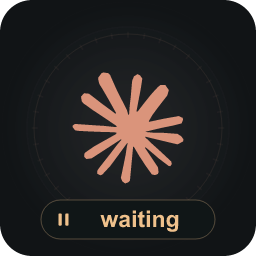
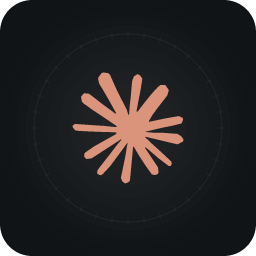
Keep Discord artwork free of text

diff --git a/assets/preview.html b/assets/preview.html
@@ -22,7 +22,7 @@
   <header><div class="wordmark"><span class="signal" aria-hidden="true"><i></i><i></i><i></i><i></i></span>dual presence</div><span class="version">action study / 02</span></header>
   <div class="eyebrow">codex + claude for discord</div>
   <h1>see what’s happening.<br><span>at a glance.</span></h1>
-  <p class="intro">the logo tells you which assistant.<br>the action badge tells you what it’s doing.</p>
+  <p class="intro">the logo tells you which assistant.<br>simple action icons. no text inside the images.</p>
   <div class="toolbar">
     <div class="segmented" aria-label="activity state">
       <button type="button" data-state="working" aria-pressed="true">working</button><button type="button" data-state="thinking" aria-pressed="false">thinking</button><button type="button" data-state="waiting" aria-pressed="false">waiting</button><button type="button" data-state="idle" aria-pressed="false">idle</button>

diff --git a/README.md b/README.md
@@ -39,6 +39,8 @@ the installer copies this local checkout to `%LOCALAPPDATA%\CodexClaudeRPC`. it 
 
 action text comes from a fixed vocabulary. raw commands, prompts, and tool inputs never appear on discord. fast tool results keep their action visible for up to eight seconds to avoid flicker. a finished action stays visible for `doneSeconds` (20 seconds by default), then the usual idle preference applies.
 
+there is no text baked into the images. the artwork contains only logos, motion, and action pictograms; labels stay in discord's normal text fields.
+
 open [the interactive animation preview](assets/preview.html) from your local checkout to compare states and pause motion. github displays the html source; download or clone first.
 
 ## settings
